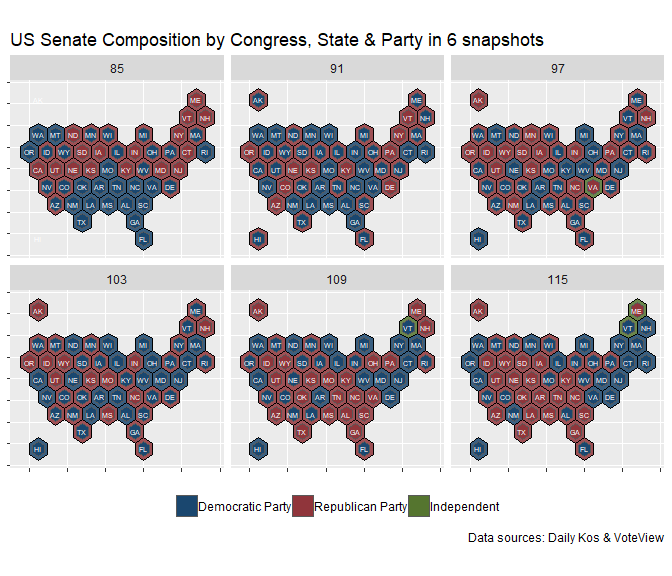
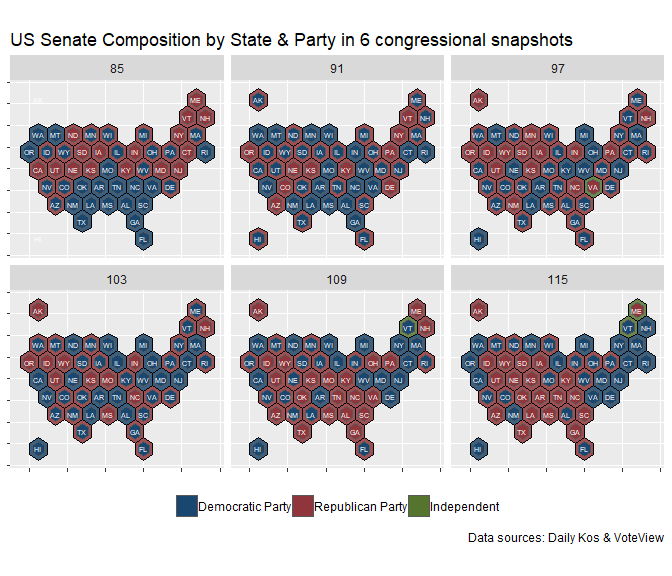
re

Changed region(s): [[0.3438, 0.0625, 0.875, 0.0938]]

diff --git a/README.md b/README.md
@@ -1,7 +1,7 @@
 American political data & R: some open source resources & methods
 -----------------------------------------------------------------
 
-A layman's guide to accessing and exploring US political data utilizing a collection of open government resources, including presidential election returns (2008-2016 by congressional district), lawmaker biographies & political ideologies, and congressional district demographics.
+A layman's, R-based guide to accessing, exploring & visualizing US political data utilizing a collection of open government resources, including presidential election returns (2008-2016 by congressional district), lawmaker biographies & political ideologies, and congressional district demographics.
 
 Data presented here have been collated from [The Daily Kos](https://www.dailykos.com/stories/2018/2/21/1742660/-The-ultimate-Daily-Kos-Elections-guide-to-all-of-our-data-sets), [CivilServiceUSA](https://github.com/CivilServiceUSA), and the R packages [tidycensus](https://walkerke.github.io/tidycensus/) & [Rvoteview](https://github.com/voteview/Rvoteview).
 
@@ -634,7 +634,7 @@ dailykos_tile$outer %>%
         legend.title=element_blank(),
         legend.position = 'bottom') +
   facet_wrap(~congress) +
-  labs(title = "US Senate Composition by Congress, State & Party in 6 snapshots",
+  labs(title = "US Senate Composition by State & Party in 6 congressional snapshots",
        caption = 'Data sources: Daily Kos & VoteView')
 ```
 
@@ -753,7 +753,7 @@ dailykos_shapes$cds %>%
 
 #### 6.4 Presidential voting groups in 2-steps: A Sankey perspective
 
-> Presidential voting groups as a two-step series.
+> Presidential voting groups as a two-step series. A more detailed perspective.
 
 ``` r
 dailykos_pres_flips %>%
@@ -784,7 +784,7 @@ dailykos_pres_flips %>%
 
 <br>
 
-> A **Sankey diagram** of presidential voting groups from (1) 2008 to 2012 and (2) 2012 to 2016. Clearly a bit jazzier as an html widget proper.
+> A **Sankey diagram** detailing transitions in presidential voting groups from (1) 2008 to 2012 and (2) 2012 to 2016. Clearly a bit jazzier as an html widget proper.
 
 ``` r
 library(plotly)
@@ -806,7 +806,7 @@ plot_ly(
       value =  c(1,192,210,32,189,21,15,207))) %>% 
   
     layout(
-      title = "Presidential voting groups by Congressional District count",
+      title = "District count transitions in presidential voting groups",
       font = list(size = 10))
 ```
 
